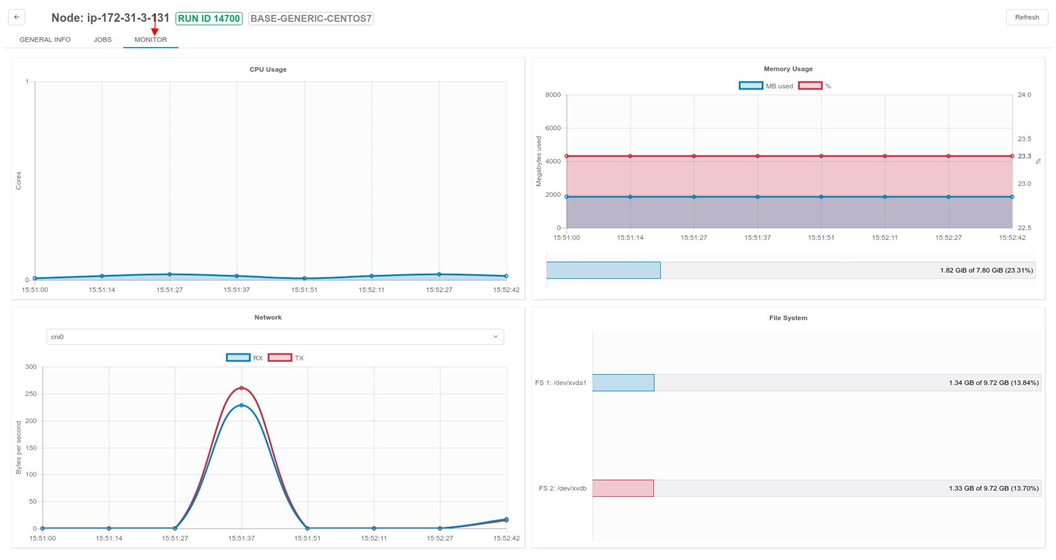
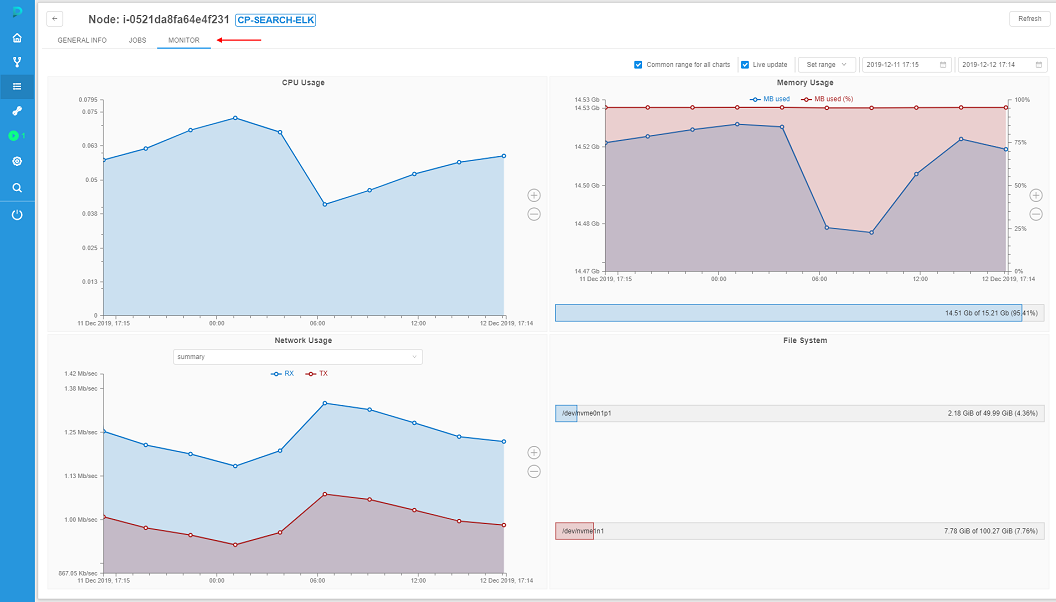
The 'Manage Cluster nodes' chapter was updated according to the improvements in the Monitor feature

diff --git a/docs/md/manual/09_Manage_Cluster_nodes/9._Manage_Cluster_nodes.md b/docs/md/manual/09_Manage_Cluster_nodes/9._Manage_Cluster_nodes.md
@@ -72,3 +72,38 @@ This tab allows seeing general info about the node, including:
 | **File system load** | Represents all the disks of the machine and their loading. |
 
 ![CP_ManageClusterNodes](attachments/ManageClusterNodes_4.png)
+
+#### Filters
+
+User can manage plots date configurations. For this purpose the system has number of filters:  
+![CP_ManageClusterNodes](attachments/ManageClusterNodes_5.png)
+
+1. *Common range for all charts*  
+    User can synchronize the time period for all charts. To do so user should mark the "Common range for all charts" filter.  
+    If this filter is unmarked, user can zoom any plot without any change for others.
+2. *Live update*  
+    If this checkbox is marked the charts data will be updated every 5 seconds in a real-time manner. The fields with dates will be updated as well.
+    This filter can be marked only in pair with *Common range for all charts* filter.  
+    If both checkboxes were unmarked and user set *Live update* filter active, the system would mark both checkboxes.
+3. *Set range*  
+    User can select the predefined time range for all plots from the list:
+    - Whole range
+    - Last week
+    - Last day
+    - Last hour
+
+    This filter works in pair with *Common range for all charts* filter. If user sets the date range, the system will mark *Common range for all charts* checkbox, if it wasn't. So the data in all charts will be filtered by the selected range.  
+4. *Date filter*  
+    User can specify the Start and the End dates for plots. The system will substitute the node creating date as the Start date and current date for the End date, if user doesn't select anything.  
+    To change the Start or the End dates user should click on the date field. After that, the calendar will be displayed for the user. The dates before the node was created and the dates after today will be unavailable to selecting:  
+    ![CP_ManageClusterNodes](attachments/ManageClusterNodes_6.png)
+    
+    If user focuses on the calendar icon at the Start or the End date fields the "Cross" button will be displayed. After clicking on this button in the Start date field the node creating date will be substituted to the filter. If user does this operation with the End date, the date will be erased and the system will interpret it as the current date.
+
+#### Zooming and scroling features
+
+In addition, user can scroll plots. To do so just focus on the plot, hold the left mouse button and move the mouse in the desired direction.
+
+Another feature is zooming charts: user can hold the Shift button on the keyboard and move the plot via mouse. The area will be highlighted and zoomed:  
+![CP_ManageClusterNodes](attachments/ManageClusterNodes_7.png)  
+Another way of zooming plot the right panel: there are Plus and Minus buttons for such purpose.

diff --git a/docs/md/release_notes/v.0.16/v.0.16_-_Release_notes.md b/docs/md/release_notes/v.0.16/v.0.16_-_Release_notes.md
@@ -170,18 +170,19 @@ For more details see [here](../../manual/15_Interactive_services/15.4._Expose_no
 ## Resource usage form improvement
 
 As a [Monitor cluster nodes](../../manual/09_Manage_Cluster_nodes/9._Manage_Cluster_nodes.md) feature was implemented, the number of filters were added:   
-- **Common range for all charts**.   
-    User can synchronize the time period for all plots. To do so user should mark the "Common range for all charts" filter.   
-    If this filter is unmarked, user can zoom any plot without any change for others.   
-- **Live update**.   
-    The plots data will be updated every 5 seconds in a real-time manner. The fields with dates will be updated as well.    
-- **Set range**.   
+
+- *Common range for all charts*  
+    User can synchronize the time period for all plots. To do so user should mark the "Common range for all charts" filter.  
+    If this filter is unmarked, user can zoom any plot without any change for others.
+- *Live update*  
+    The plots data will be updated every 5 seconds in a real-time manner. The fields with dates will be updated as well.
+- *Set range*  
     User can select the predefined time range for all plots from the list:
     - Whole range
     - Last week
     - Last day
-    - Last hour.   
-- **Date filter**.   
+    - Last hour
+- *Date filter*  
     User can specify the Start and the End dates for plots. The system will substitute the node creating date as the Start date and current date for the End date, if user doesn't select anything.
 
 ![CP_v.0.16_ReleaseNotes](attachments/RN016_ManageClusterNodes_1.png)
